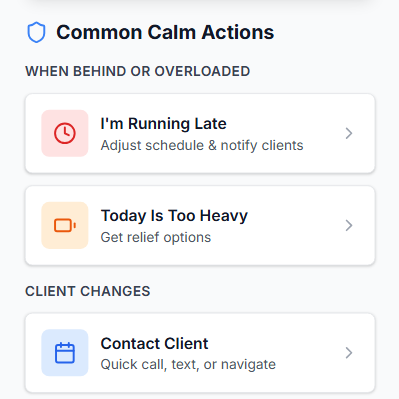
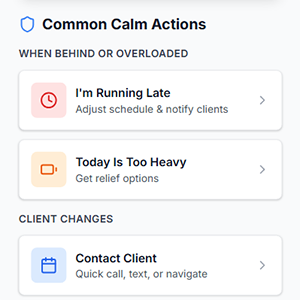
testing images again

diff --git a/app/page.tsx b/app/page.tsx
@@ -216,7 +216,7 @@ export default function Home() {
               <div className="mt-auto px-4 pb-4">
                 <div className="bg-gradient-to-b from-gray-100 to-gray-200 rounded-xl p-2 shadow-inner">
                   <Image
-                    src="/images/area_days.svg"
+                    src="/images/area_days.png"
                     alt="Area Days feature - assign neighborhoods to specific days"
                     width={300}
                     height={300}
